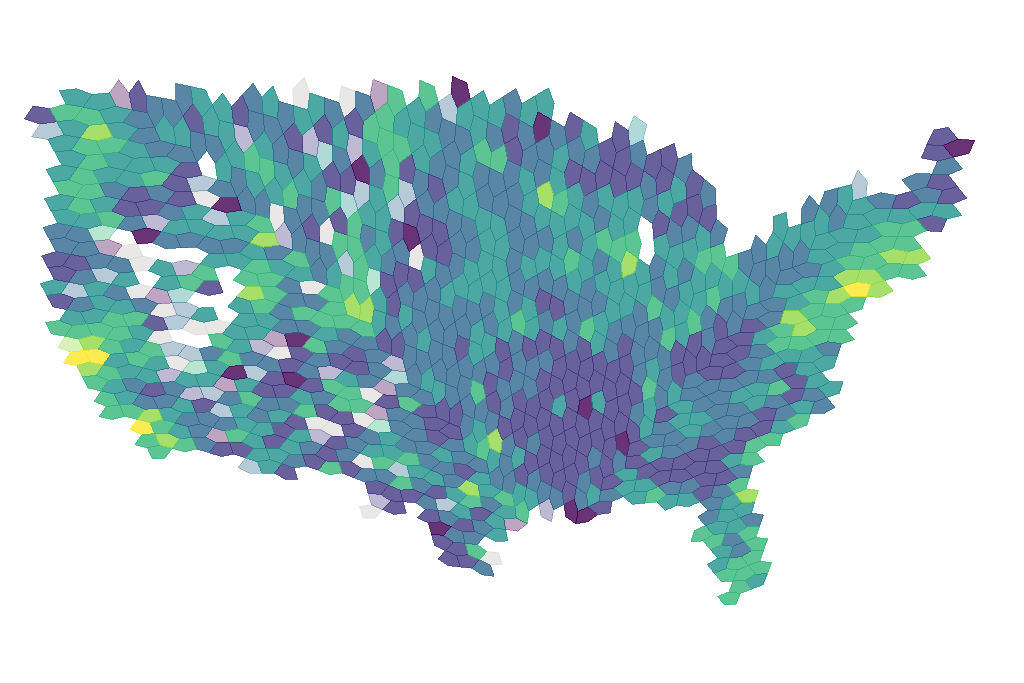
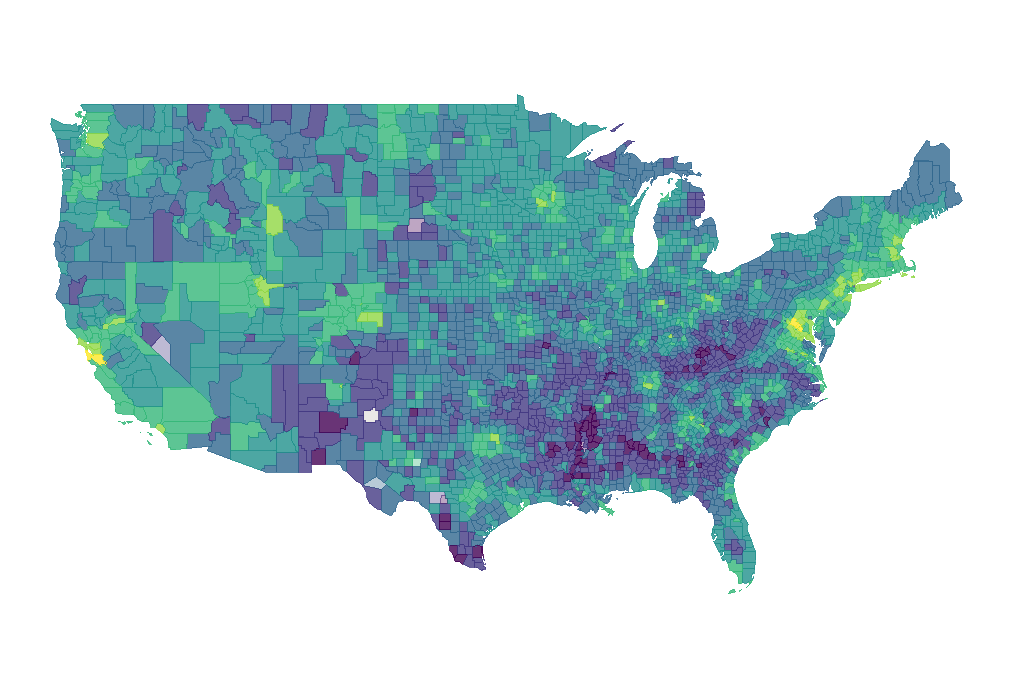
chore: re-render thumbnails for the county-pyramid tiles
The 12 rebuilt collections now render county choropleths at the
thumbnail zoom instead of the A5 hex mosaic. The STAC thumbnail
assets carry the new sizes and checksums. All test gates pass.

Claude-Session: https://claude.ai/code/session_01NCUyfZ7qU7MosHBp7Vk6Vu

diff --git a/catalog/block-groups/bg-connectivity/README.md b/catalog/block-groups/bg-connectivity/README.md
@@ -70,7 +70,7 @@ This is a mirror — [data.census.gov](https://data.census.gov/) is authoritativ
 |------|------|----------|
 | ./bg-connectivity.parquet | 89.5 MB | 1220797668ad... |
 | ./bg-connectivity.pmtiles | 639.6 MB | 12200f82af82... |
-| ./thumbnail.png | 65.2 KB | 12209fdfc3e1... |
+| ./thumbnail.png | 90.3 KB | 12202583d7ac... |
 | ./styles/default.json | 2.0 KB | 122002e38ec3... |
 | ./styles/no-vehicle.json | 2.0 KB | 122030a7b741... |
 | ./styles/transit-commute.json | 2.3 KB | 12206a8f7861... |

diff --git a/catalog/tracts/tract-wellbeing/README.md b/catalog/tracts/tract-wellbeing/README.md
@@ -76,7 +76,7 @@ This is a mirror — [data.census.gov](https://data.census.gov/) is authoritativ
 |------|------|----------|
 | ./tract-wellbeing.parquet | 53.8 MB | 12202609fdb6... |
 | ./tract-wellbeing.pmtiles | 240.3 MB | 1220b553e017... |
-| ./thumbnail.png | 62.8 KB | 1220a4933186... |
+| ./thumbnail.png | 88.5 KB | 1220f0a28b11... |
 | ./styles/default.json | 2.0 KB | 1220461aa46d... |
 | ./styles/disability.json | 2.2 KB | 1220dc5c78fe... |
 | ./styles/foreign-born.json | 1.7 KB | 1220ff6d0013... |

diff --git a/catalog/tracts/tract-people/README.md b/catalog/tracts/tract-people/README.md
@@ -69,7 +69,7 @@ This is a mirror — [data.census.gov](https://data.census.gov/) is authoritativ
 |------|------|----------|
 | ./tract-people.parquet | 53.2 MB | 12204c23de26... |
 | ./tract-people.pmtiles | 217.2 MB | 12205b75c779... |
-| ./thumbnail.png | 69.7 KB | 12201818e92d... |
+| ./thumbnail.png | 80.4 KB | 1220be4637ca... |
 | ./styles/default.json | 1.9 KB | 122096667d82... |
 | ./styles/education.json | 1.8 KB | 1220c963c0e1... |
 | ./styles/people-of-color.json | 1.8 KB | 122035bb1ded... |

diff --git a/catalog/block-groups/bg-housing/README.md b/catalog/block-groups/bg-housing/README.md
@@ -74,7 +74,7 @@ This is a mirror — [data.census.gov](https://data.census.gov/) is authoritativ
 |------|------|----------|
 | ./bg-housing.parquet | 91.7 MB | 1220cf7ca151... |
 | ./bg-housing.pmtiles | 698.1 MB | 1220d14ab041... |
-| ./thumbnail.png | 70.0 KB | 122006aad866... |
+| ./thumbnail.png | 91.7 KB | 1220f9ba8530... |
 | ./styles/default.json | 2.6 KB | 12204958989d... |
 | ./styles/ownership.json | 1.8 KB | 1220f9b8201a... |
 | ./styles/pre-1940.json | 1.8 KB | 12200971b63e... |

diff --git a/catalog/tracts/tract-income/README.md b/catalog/tracts/tract-income/README.md
@@ -63,7 +63,7 @@ This is a mirror — [data.census.gov](https://data.census.gov/) is authoritativ
 |------|------|----------|
 | ./tract-income.parquet | 53.0 MB | 122033058c93... |
 | ./tract-income.pmtiles | 211.9 MB | 122077aafe19... |
-| ./thumbnail.png | 65.0 KB | 1220d4a5c089... |
+| ./thumbnail.png | 88.7 KB | 1220670e8a71... |
 | ./styles/default.json | 2.3 KB | 12202fa6e1eb... |
 | ./styles/poverty.json | 2.0 KB | 12201e432775... |
 | ./styles/snap.json | 1.7 KB | 1220cc829a8e... |

diff --git a/catalog/places/README.md b/catalog/places/README.md
@@ -154,7 +154,7 @@ This is a mirror — [data.census.gov](https://data.census.gov/) is authoritativ
 |------|------|----------|
 | ./places.pmtiles | 197.0 MB | 1220c7c9e138... |
 | ./places.parquet | 32.9 MB | 1220f1f1d496... |
-| ./thumbnail.png | 75.6 KB | 12203b84a9b1... |
+| ./thumbnail.png | 90.4 KB | 122009888932... |
 | ./styles/default.json | 2.6 KB | 1220121597ce... |
 | ./styles/density.json | 1.8 KB | 1220855d7c77... |
 | ./styles/home-value.json | 2.6 KB | 1220c62fffce... |

diff --git a/catalog/zctas/README.md b/catalog/zctas/README.md
@@ -154,7 +154,7 @@ This is a mirror — [data.census.gov](https://data.census.gov/) is authoritativ
 |------|------|----------|
 | ./zctas.pmtiles | 455.9 MB | 12201552af02... |
 | ./zctas.parquet | 71.7 MB | 122045e7bd0d... |
-| ./thumbnail.png | 71.3 KB | 122075a3d2e9... |
+| ./thumbnail.png | 92.2 KB | 12206ce1d681... |
 | ./styles/default.json | 2.6 KB | 122029ff610b... |
 | ./styles/density.json | 1.8 KB | 1220ed33e661... |
 | ./styles/home-value.json | 2.6 KB | 1220d9d0c496... |

diff --git a/catalog/blocks/README.md b/catalog/blocks/README.md
@@ -64,7 +64,7 @@ This is a mirror — [data.census.gov](https://data.census.gov/) is authoritativ
 |------|------|----------|
 | ./state_fips=*/*.parquet | - | - |
 | ./items.parquet | 50.4 KB | 12209fad0824... |
-| ./thumbnail.png | 66.9 KB | 1220c57df1ec... |
+| ./thumbnail.png | 87.9 KB | 122015b68f91... |
 | ./blocks.pmtiles | 6.6 GB | 12202a415c37... |
 | ./styles/black-share.json | 2.1 KB | 122033e39965... |
 | ./styles/default.json | 1.9 KB | 1220b991a401... |

diff --git a/catalog/tracts/tract-connectivity/README.md b/catalog/tracts/tract-connectivity/README.md
@@ -68,7 +68,7 @@ This is a mirror — [data.census.gov](https://data.census.gov/) is authoritativ
 
 | File | Size | Checksum |
 |------|------|----------|
-| ./thumbnail.png | 63.5 KB | 1220970789e2... |
+| ./thumbnail.png | 90.3 KB | 12202583d7ac... |
 | ./tract-connectivity.pmtiles | 234.1 MB | 1220240319a5... |
 | ./tract-connectivity.parquet | 53.3 MB | 1220a1d5db1a... |
 | ./styles/default.json | 2.0 KB | 1220466a2250... |

diff --git a/catalog/tracts/tract-housing/README.md b/catalog/tracts/tract-housing/README.md
@@ -70,7 +70,7 @@ This is a mirror — [data.census.gov](https://data.census.gov/) is authoritativ
 
 | File | Size | Checksum |
 |------|------|----------|
-| ./thumbnail.png | 67.2 KB | 12204105767a... |
+| ./thumbnail.png | 91.1 KB | 12207ec15f31... |
 | ./tract-housing.pmtiles | 255.2 MB | 1220c0231814... |
 | ./tract-housing.parquet | 54.1 MB | 122097f82b99... |
 | ./styles/default.json | 2.2 KB | 122064e466fe... |

diff --git a/catalog/block-groups/bg-income/README.md b/catalog/block-groups/bg-income/README.md
@@ -63,7 +63,7 @@ This is a mirror — [data.census.gov](https://data.census.gov/) is authoritativ
 
 | File | Size | Checksum |
 |------|------|----------|
-| ./thumbnail.png | 68.6 KB | 1220cd4ef018... |
+| ./thumbnail.png | 88.8 KB | 1220dff528de... |
 | ./bg-income.pmtiles | 598.5 MB | 1220b87f92ff... |
 | ./bg-income.parquet | 89.2 MB | 12209693f4da... |
 | ./styles/default.json | 2.6 KB | 1220a4e438c5... |

diff --git a/catalog/block-groups/bg-people/README.md b/catalog/block-groups/bg-people/README.md
@@ -67,7 +67,7 @@ This is a mirror — [data.census.gov](https://data.census.gov/) is authoritativ
 
 | File | Size | Checksum |
 |------|------|----------|
-| ./thumbnail.png | 70.0 KB | 12200b960c87... |
+| ./thumbnail.png | 80.4 KB | 1220be4637ca... |
 | ./bg-people.pmtiles | 607.9 MB | 1220aabbcc30... |
 | ./bg-people.parquet | 89.9 MB | 12209e7a7960... |
 | ./styles/default.json | 1.9 KB | 12205519b770... |
